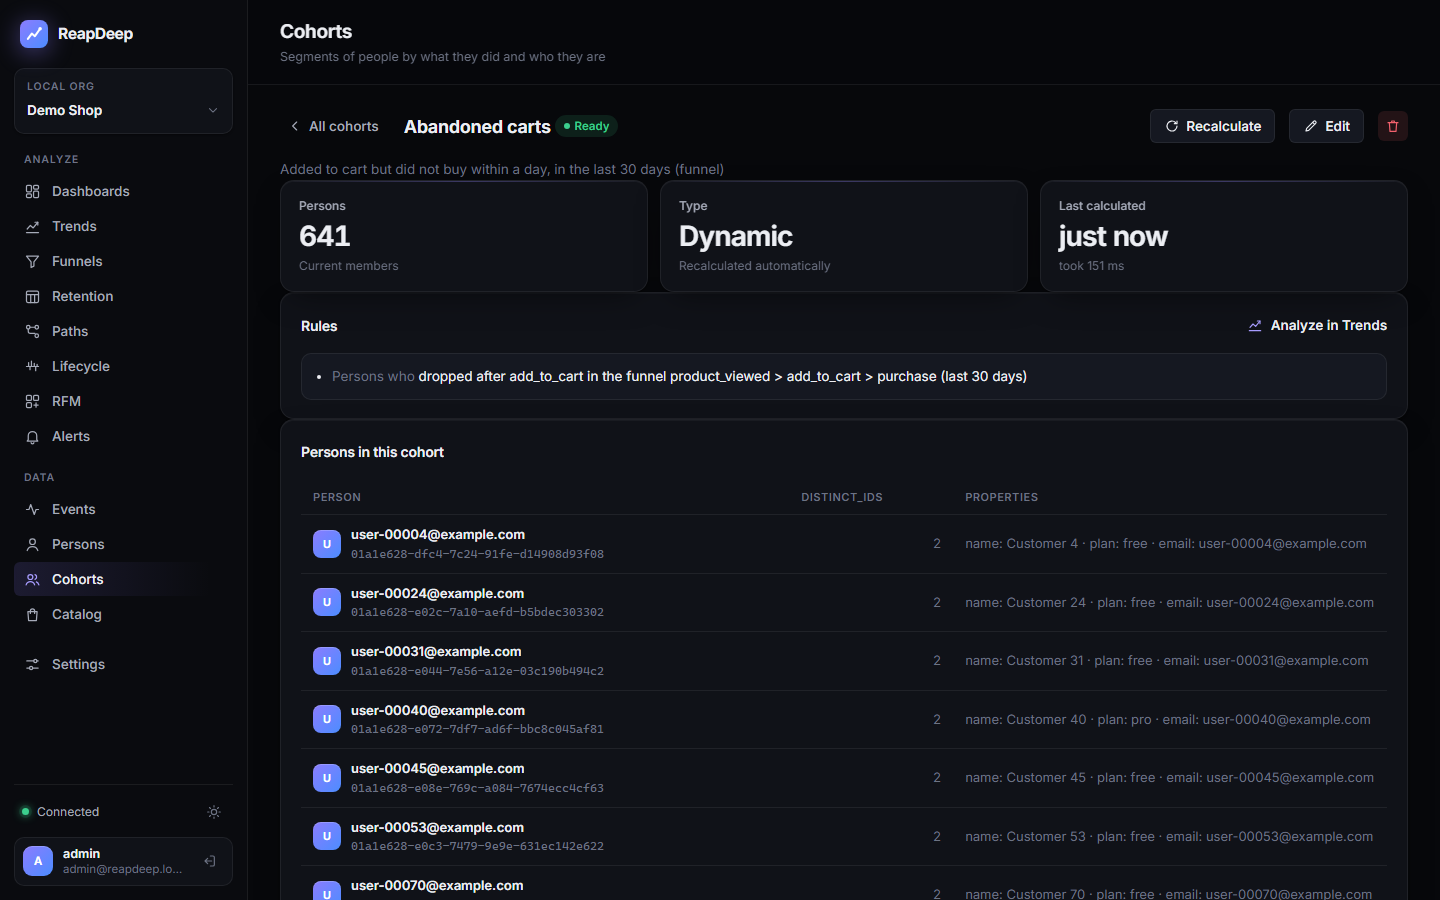
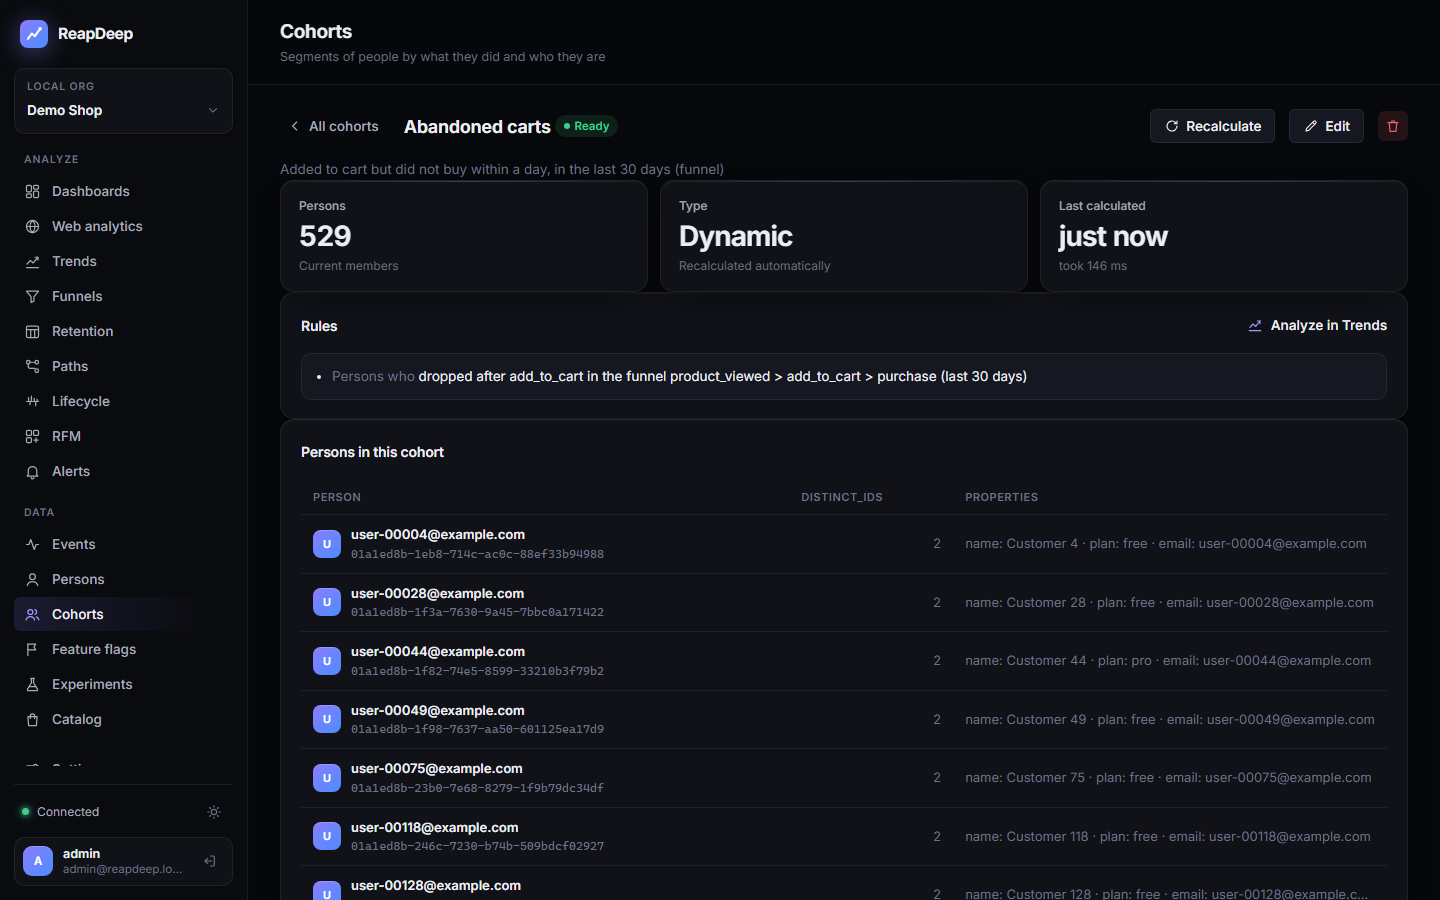
Refresh README screenshots and the tour GIF
Re-take every dashboard image from freshly generated Demo Shop data
(-Reset -Visitors 6000) so the sidebar shows Web analytics, Feature flags
and Experiments. The tour GIF now covers ten pages, including web analytics,
feature flags and experiment results. The funnel drop-off image is taken
without scrolling (1440x1400), so nothing shows through the sticky top bar.
Recommendation numbers in the README follow the new demo data.

diff --git a/README.md b/README.md
@@ -8,7 +8,7 @@ A tiny JavaScript SDK captures events, a Native AOT .NET ingestion API writes th
 StarRocks makes them queryable within seconds, and a React dashboard answers trend, funnel,
 retention, path and person questions over hundreds of millions of events.
 
-![A tour of the dashboard: overview, trend formula, funnel, lifecycle, RFM, cohort and alerts](docs/images/tour.gif)
+![A tour of the dashboard: overview, web analytics, trend formula, funnel, lifecycle, RFM, cohort, feature flags, experiment results and alerts](docs/images/tour.gif)
 
 - **Analyses:** trends (totals, unique users, sum/average/median/p90 of a property, formulas such as `A / B`, comparison with the previous period, breakdowns), funnels with conversion windows, time to convert and the list of persons who dropped off at each step (savable as a cohort), weekly or daily retention cohorts, user paths, lifecycle (new, returning, resurrecting, dormant), RFM customer segments, a live event stream and person profiles; any of them can be saved and arranged on dashboards.
 - **Web analytics:** a ready-made traffic page with visitors, pageviews, sessions, bounce rate and session duration against the previous period, visitors and pageviews over time, top and entry pages, referrers and UTM source, medium and campaign, and device type, browser and OS.
@@ -155,7 +155,7 @@ cd deploy/local
 .\demo-data.ps1     # ~50K events from 3,000 visitors over 8 weeks plus a year of purchase history, sent through the ingestion API
 ```
 
-The seed creates a **Demo Shop** project with a deterministic store scenario: traffic sources, desktop and mobile browsers, product pages, a cart and checkout funnel, sign-ups that merge anonymous history, and returning visitors over the following weeks. Repeat buyers and a group of past customers who bought up to 11 months ago give the RFM segments a realistic spread. It also creates a running A/B test on a `one-page-checkout` flag whose test variant really converts better (a conversion and a revenue-per-visitor experiment), a "Demo Shop overview" dashboard and sample cohorts (Champions, Customers at risk, Window shoppers, Pro plan), plus three alerts created through the Query API (a webhook and a Slack alert that post to `example.com`, and an email alert to `example.com` addresses that the local stack delivers to Mailpit); alerts that already exist by name are left alone. `-Reset` regenerates the project from scratch. Pick the project in the top bar and choose "Last 30 days".
+The seed creates a **Demo Shop** project with a deterministic store scenario: traffic sources, desktop and mobile browsers, product pages, a cart and checkout funnel, sign-ups that merge anonymous history, and returning visitors over the following weeks. Repeat buyers and a group of past customers who bought up to 11 months ago give the RFM segments a realistic spread. It also creates a running A/B test on a `one-page-checkout` flag whose test variant really converts better (a conversion and a revenue-per-visitor experiment), a "Demo Shop overview" dashboard and sample cohorts (Champions, Customers at risk, Window shoppers, Pro plan), plus three alerts created through the Query API (a webhook and a Slack alert that post to `example.com`, and an email alert to `example.com` addresses that the local stack delivers to Mailpit); alerts that already exist by name are left alone. `-Reset` regenerates the project from scratch; the screenshots in this README come from `.\demo-data.ps1 -Reset -Visitors 6000` (~124K events). Pick the project in the top bar and choose "Last 30 days".
 
 ![Demo Shop dashboard](docs/images/dashboard.png)
 
@@ -284,9 +284,9 @@ Interactions are counted per `distinct_id` first and then merged per person, so 
 curl "http://localhost:8002/recommend?api_key=pk_demo_shop&model=co_viewed&item_id=linen-shirt&limit=5"
 ```
 
-Quality is measured on demand (`POST /api/v1/recommendations/evaluate`, the Catalog tab's "Measure now"): the models are trained on the 30 days before the last week, and for each person the second item they touched last week counts as a hit if it was in the top 10 for their first. On the demo data co_viewed reaches a 27.0% hit rate against 24.3% for the popular baseline; the demo browsing is strongly popularity-driven, so the gap is small.
+Quality is measured on demand (`POST /api/v1/recommendations/evaluate`, the Catalog tab's "Measure now"): the models are trained on the 30 days before the last week, and for each person the second item they touched last week counts as a hit if it was in the top 10 for their first. On the demo data (`-Visitors 6000`) co_viewed reaches a 23.8% hit rate against 22.5% for the popular baseline; the demo browsing is strongly popularity-driven, so the gap is small and depends on the generated sample.
 
-Live performance comes from the site itself: the SDK's `trackRecommendationShown` and `trackRecommendationClicked` send `recommendation_shown` and `recommendation_clicked` events with the model and the placement, and `GET /api/v1/recommendations/performance?days=7|30|90` (read key; the Catalog tab's "Live performance") returns impressions, clicks, click rate and purchases per model and placement. A purchase counts when the same person buys the clicked item within 7 days of the click. The demo shop sends both events: similar items on product pages are clicked 23.1% of the time and popular items on the home page 12.0% (last 30 days).
+Live performance comes from the site itself: the SDK's `trackRecommendationShown` and `trackRecommendationClicked` send `recommendation_shown` and `recommendation_clicked` events with the model and the placement, and `GET /api/v1/recommendations/performance?days=7|30|90` (read key; the Catalog tab's "Live performance") returns impressions, clicks, click rate and purchases per model and placement. A purchase counts when the same person buys the clicked item within 7 days of the click. The demo shop sends both events: similar items on product pages are clicked 23.4% of the time and popular items on the home page 11.3% (last 30 days).
 
 The recommendation tables hold aggregates over many people, not personal data. A deleted person's interactions drop out at the next refresh.
 
